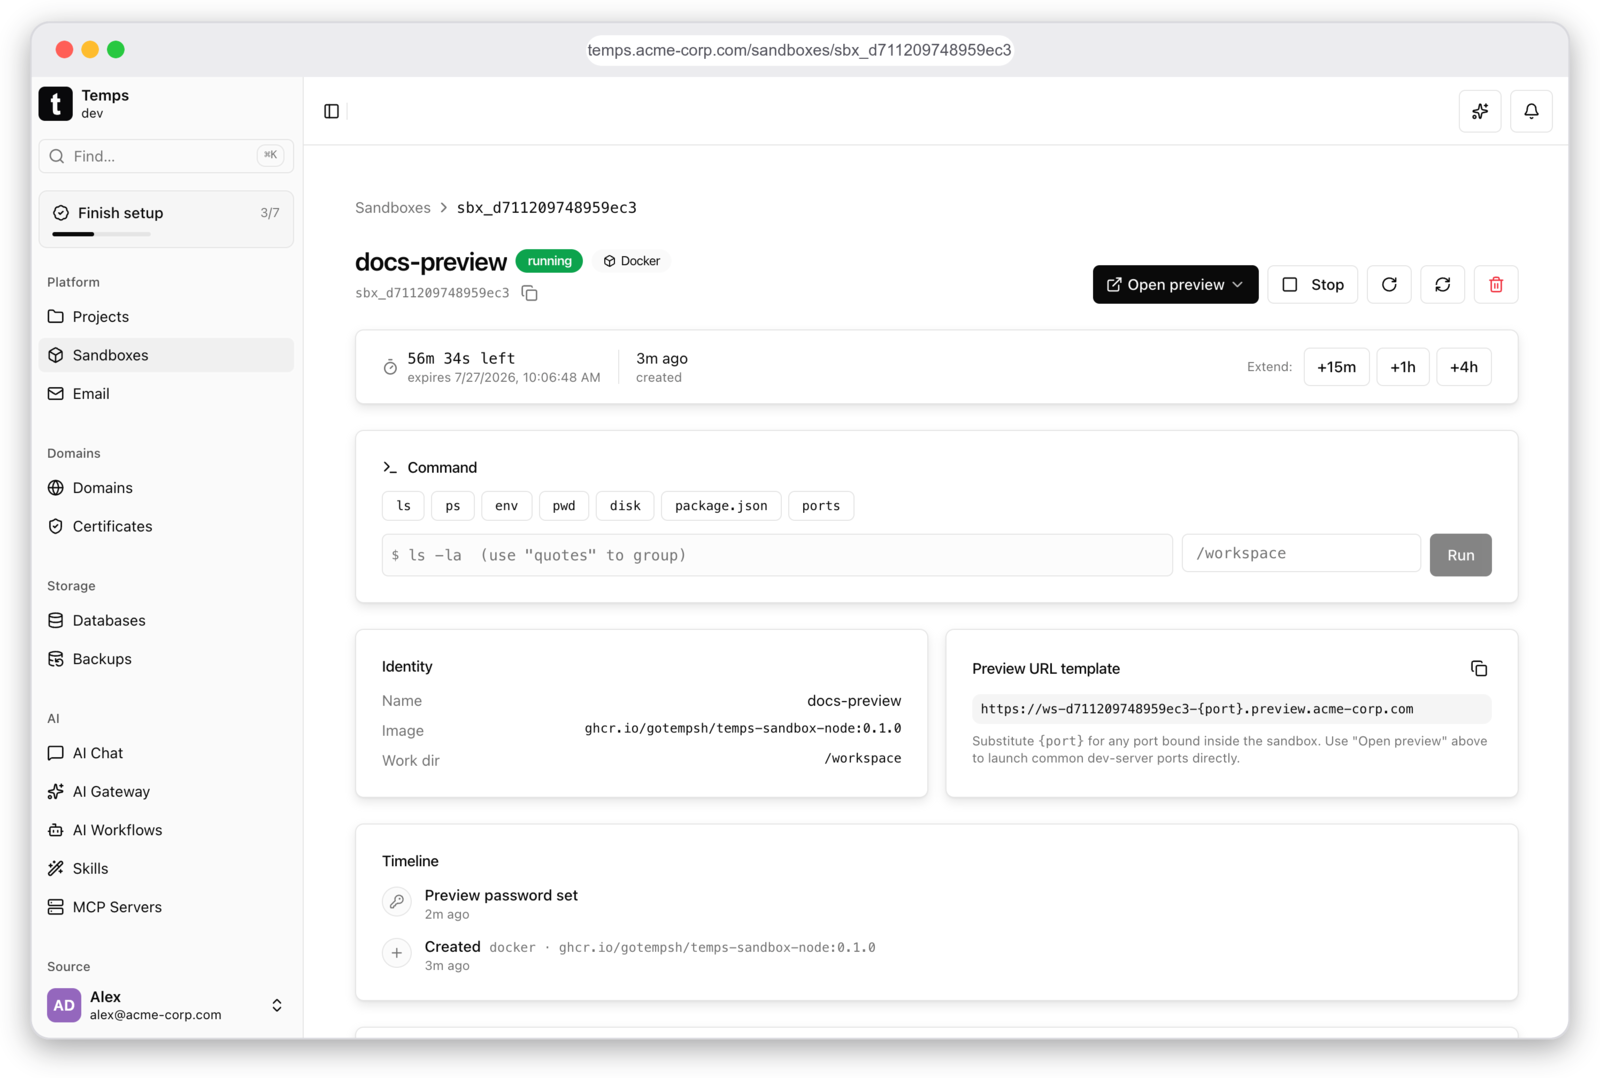
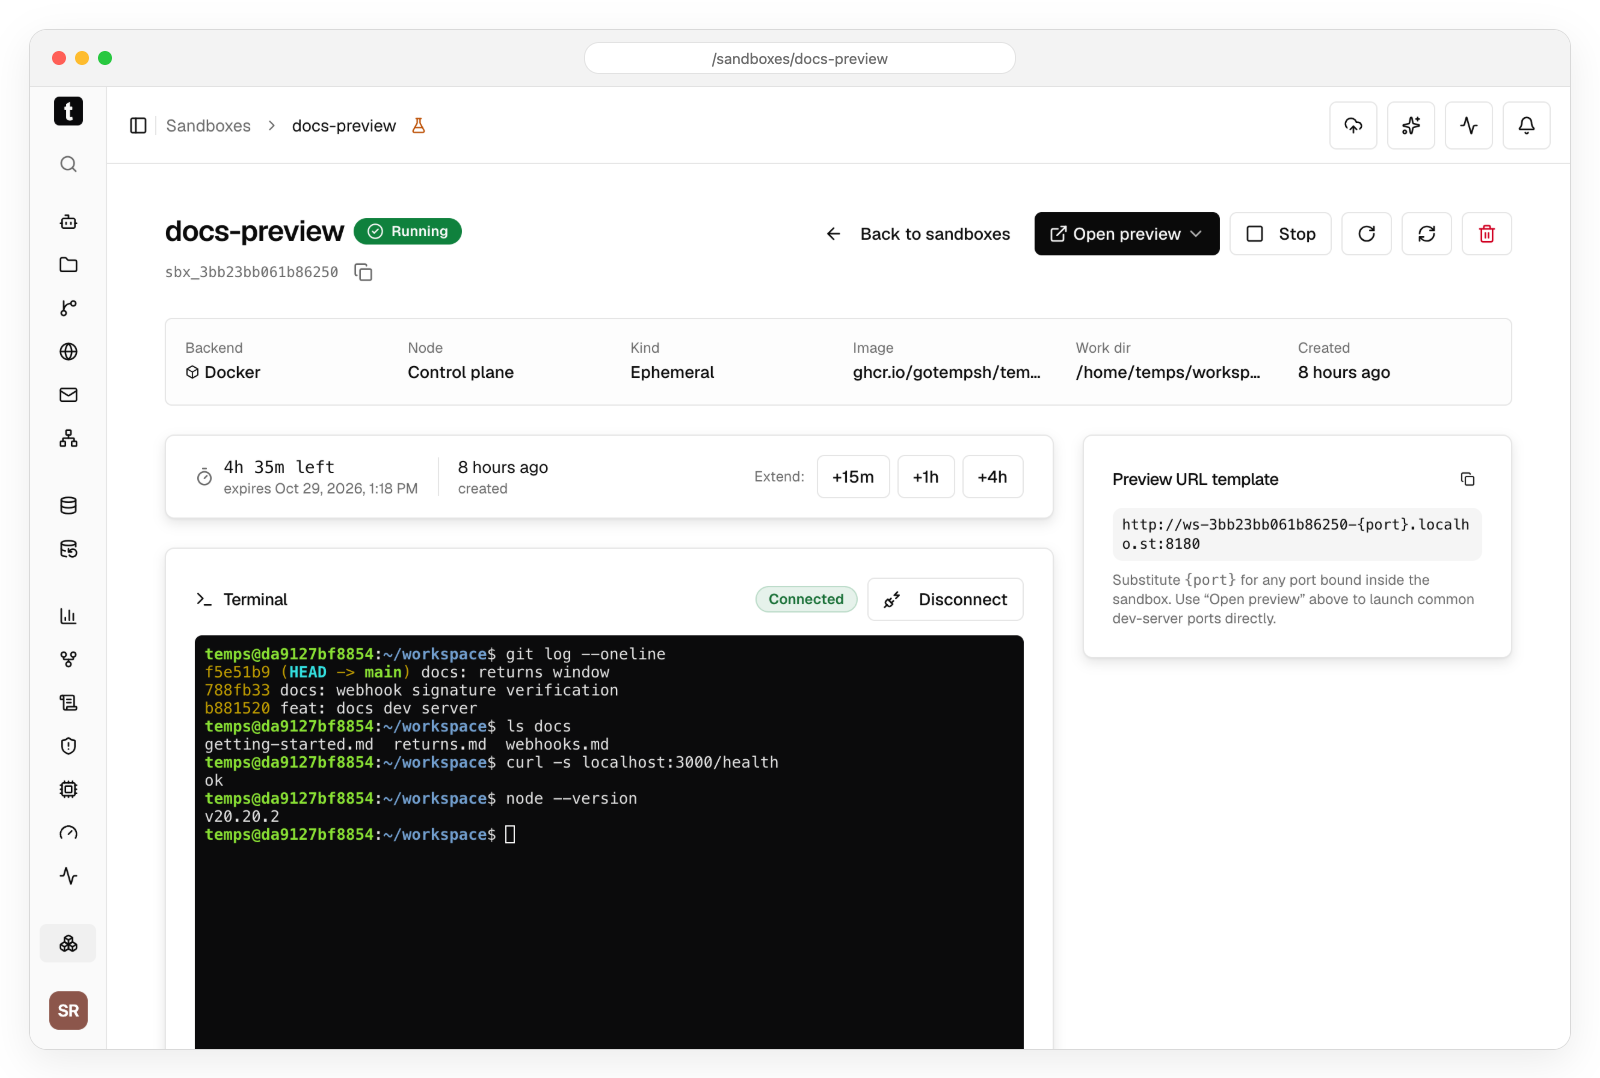
docs(readme): refresh product screenshots
Recapture eight showcase screens (dashboard, AI chat, error tracking,
traces, analytics, uptime, AI usage and sandbox detail) in light and
dark, framed like the existing shots, from a seeded demo instance with
fictional data. Update the alt text of the three images whose content
changed (AI chat, errors, sandbox detail) in every README translation.

diff --git a/README.fr.md b/README.fr.md
@@ -58,7 +58,7 @@ Posez une question sur votre projet et la réponse vient de vos données — tra
 
 <picture>
   <source media="(prefers-color-scheme: dark)" srcset="assets/screenshots/ai-chat-dark.png">
-  <img alt="Le chat IA de Temps diagnostiquant un pic de latence au checkout à partir des traces, métriques et revenus du projet lui-même" src="assets/screenshots/ai-chat-light.png">
+  <img alt="Le chat IA de Temps expliquant des checkouts échoués à partir des erreurs, logs de requêtes et traces du projet lui-même, avec des correctifs suggérés" src="assets/screenshots/ai-chat-light.png">
 </picture>
 
 ### AI Gateway — un seul endpoint, vos propres clés
@@ -99,7 +99,7 @@ Remplacement direct de Sentry : pointez le SDK Sentry officiel vers votre DSN Te
 
 <picture>
   <source media="(prefers-color-scheme: dark)" srcset="assets/screenshots/errors-dark.png">
-  <img alt="Suivi d'erreurs Temps — groupes d'erreurs avec événements et chronologies" src="assets/screenshots/errors-light.png">
+  <img alt="Suivi d'erreurs Temps — erreurs de tous les services avec statut, nombre d'événements et d'utilisateurs, et un bouton « Fix with agent »" src="assets/screenshots/errors-light.png">
 </picture>
 
 ### Logs de requêtes et visibilité du proxy
@@ -181,7 +181,7 @@ Chaque sandbox dispose d'un shell, d'un modèle d'URL d'aperçu pour tout port q
 
 <picture>
   <source media="(prefers-color-scheme: dark)" srcset="assets/screenshots/sandbox-detail-dark.png">
-  <img alt="Détail d'un sandbox Temps — backend Docker/Firecracker, exécuteur de commandes dans le navigateur, modèle d'URL d'aperçu et aperçus protégés par mot de passe" src="assets/screenshots/sandbox-detail-light.png">
+  <img alt="Détail d'un sandbox Temps — un sandbox Docker en cours d'exécution avec un terminal en direct dans le navigateur, le temps restant et le modèle d'URL d'aperçu" src="assets/screenshots/sandbox-detail-light.png">
 </picture>
 
 ### Tout dans un seul tableau de bord

diff --git a/README.es.md b/README.es.md
@@ -58,7 +58,7 @@ Pregunta por tu proyecto y la respuesta sale de tus datos — trazas, métricas,
 
 <picture>
   <source media="(prefers-color-scheme: dark)" srcset="assets/screenshots/ai-chat-dark.png">
-  <img alt="El chat de IA de Temps diagnosticando un pico de latencia en el checkout a partir de las trazas, métricas e ingresos del propio proyecto" src="assets/screenshots/ai-chat-light.png">
+  <img alt="El chat de IA de Temps explicando checkouts fallidos a partir de los errores, logs de peticiones y trazas del propio proyecto, con soluciones sugeridas" src="assets/screenshots/ai-chat-light.png">
 </picture>
 
 ### AI Gateway — un endpoint, tus propias claves
@@ -99,7 +99,7 @@ Sustituto directo de Sentry: apunta el SDK oficial de Sentry a tu DSN de Temps y
 
 <picture>
   <source media="(prefers-color-scheme: dark)" srcset="assets/screenshots/errors-dark.png">
-  <img alt="Seguimiento de errores de Temps — grupos de errores con eventos y líneas de tiempo" src="assets/screenshots/errors-light.png">
+  <img alt="Seguimiento de errores de Temps — errores de todos los servicios con estado, número de eventos y usuarios, y un botón «Fix with agent»" src="assets/screenshots/errors-light.png">
 </picture>
 
 ### Registro de peticiones y visibilidad del proxy
@@ -181,7 +181,7 @@ Cada sandbox trae una shell, una plantilla de URL de vista previa para cualquier
 
 <picture>
   <source media="(prefers-color-scheme: dark)" srcset="assets/screenshots/sandbox-detail-dark.png">
-  <img alt="Detalle de sandbox en Temps — backend Docker/Firecracker, ejecutor de comandos en el navegador, plantilla de URL de vista previa y vistas previas protegidas por contraseña" src="assets/screenshots/sandbox-detail-light.png">
+  <img alt="Detalle de sandbox en Temps — un sandbox Docker en ejecución con terminal en vivo en el navegador, tiempo restante y plantilla de URL de vista previa" src="assets/screenshots/sandbox-detail-light.png">
 </picture>
 
 ### Todo en un solo panel

diff --git a/README.pt-BR.md b/README.pt-BR.md
@@ -58,7 +58,7 @@ Pergunte sobre o seu projeto e a resposta vem dos seus dados — traces, métric
 
 <picture>
   <source media="(prefers-color-scheme: dark)" srcset="assets/screenshots/ai-chat-dark.png">
-  <img alt="O chat de IA do Temps diagnosticando um pico de latência no checkout a partir dos traces, métricas e dados de receita do próprio projeto" src="assets/screenshots/ai-chat-light.png">
+  <img alt="O chat de IA do Temps explicando checkouts com falha a partir dos erros, logs de requisição e traces do próprio projeto, com correções sugeridas" src="assets/screenshots/ai-chat-light.png">
 </picture>
 
 ### AI Gateway — um endpoint, suas próprias chaves
@@ -99,7 +99,7 @@ Substituição drop-in do Sentry: aponte o SDK oficial do Sentry para o seu DSN 
 
 <picture>
   <source media="(prefers-color-scheme: dark)" srcset="assets/screenshots/errors-dark.png">
-  <img alt="Rastreamento de erros do Temps — grupos de erros com eventos e linhas do tempo" src="assets/screenshots/errors-light.png">
+  <img alt="Rastreamento de erros do Temps — erros de todos os serviços com status, contagem de eventos e usuários, e um botão &quot;Fix with agent&quot;" src="assets/screenshots/errors-light.png">
 </picture>
 
 ### Logs de Requisições e Visibilidade do Proxy
@@ -181,7 +181,7 @@ Cada sandbox ganha um shell, um modelo de URL de preview para qualquer porta que
 
 <picture>
   <source media="(prefers-color-scheme: dark)" srcset="assets/screenshots/sandbox-detail-dark.png">
-  <img alt="Detalhe de sandbox no Temps — backend Docker/Firecracker, executor de comandos no navegador, modelo de URL de preview e previews protegidos por senha" src="assets/screenshots/sandbox-detail-light.png">
+  <img alt="Detalhe de sandbox no Temps — um sandbox Docker em execução com terminal ao vivo no navegador, tempo restante e modelo de URL de preview" src="assets/screenshots/sandbox-detail-light.png">
 </picture>
 
 ### Tudo em um só Dashboard

diff --git a/README.de.md b/README.de.md
@@ -58,7 +58,7 @@ Frag nach deinem Projekt und die Antwort kommt aus deinen Daten — Traces, Metr
 
 <picture>
   <source media="(prefers-color-scheme: dark)" srcset="assets/screenshots/ai-chat-dark.png">
-  <img alt="Der Temps-KI-Chat diagnostiziert einen Checkout-Latenzanstieg anhand der eigenen Traces, Metriken und Umsatzdaten des Projekts" src="assets/screenshots/ai-chat-light.png">
+  <img alt="Der Temps-KI-Chat erklärt fehlgeschlagene Checkouts anhand der eigenen Fehler, Request-Logs und Traces des Projekts, mit Lösungsvorschlägen" src="assets/screenshots/ai-chat-light.png">
 </picture>
 
 ### AI Gateway — ein Endpunkt, deine eigenen Keys
@@ -99,7 +99,7 @@ Drop-in-Ersatz für Sentry: Richte das offizielle Sentry-SDK auf deinen Temps-DS
 
 <picture>
   <source media="(prefers-color-scheme: dark)" srcset="assets/screenshots/errors-dark.png">
-  <img alt="Temps Error-Tracking — Fehlergruppen mit Events und Zeitleisten" src="assets/screenshots/errors-light.png">
+  <img alt="Temps Error-Tracking — Fehler aller Services mit Status, Event- und Nutzerzahlen und einer Schaltfläche „Fix with agent“" src="assets/screenshots/errors-light.png">
 </picture>
 
 ### Request-Logs & Proxy-Einblick
@@ -181,7 +181,7 @@ Jede Sandbox bekommt eine Shell, eine Vorschau-URL-Vorlage für jeden gebundenen
 
 <picture>
   <source media="(prefers-color-scheme: dark)" srcset="assets/screenshots/sandbox-detail-dark.png">
-  <img alt="Temps-Sandbox-Detail — Docker-/Firecracker-Backend, Befehlsausführung im Browser, Vorschau-URL-Vorlage und passwortgeschützte Vorschauen" src="assets/screenshots/sandbox-detail-light.png">
+  <img alt="Temps-Sandbox-Detail — eine laufende Docker-Sandbox mit Live-Terminal im Browser, Restlaufzeit und Vorschau-URL-Vorlage" src="assets/screenshots/sandbox-detail-light.png">
 </picture>
 
 ### Alles in einem Dashboard

diff --git a/README.md b/README.md
@@ -42,7 +42,7 @@ Ask about your project and the answer comes from your data — traces, metrics, 
 
 <picture>
   <source media="(prefers-color-scheme: dark)" srcset="assets/screenshots/ai-chat-dark.png">
-  <img alt="Temps AI chat diagnosing a checkout latency spike from the project's own traces, metrics and revenue data" src="assets/screenshots/ai-chat-light.png">
+  <img alt="Temps AI chat explaining failed checkouts from the project's own errors, request logs and traces, with suggested fixes" src="assets/screenshots/ai-chat-light.png">
 </picture>
 
 ### AI Gateway — one endpoint, your own keys
@@ -83,7 +83,7 @@ Point supported official Sentry SDKs at your Temps DSN to ingest errors, structu
 
 <picture>
   <source media="(prefers-color-scheme: dark)" srcset="assets/screenshots/errors-dark.png">
-  <img alt="Temps error tracking — error groups with events and timelines" src="assets/screenshots/errors-light.png">
+  <img alt="Temps error tracking — errors across services with status, event and user counts, and a Fix with agent button" src="assets/screenshots/errors-light.png">
 </picture>
 
 ### Request Logs & Proxy Visibility
@@ -167,7 +167,7 @@ Each sandbox gets a shell, a preview URL template for any port it binds, and a t
 
 <picture>
   <source media="(prefers-color-scheme: dark)" srcset="assets/screenshots/sandbox-detail-dark.png">
-  <img alt="Temps sandbox detail — Docker/Firecracker backend, in-browser command runner, preview URL template and password-protected previews" src="assets/screenshots/sandbox-detail-light.png">
+  <img alt="Temps sandbox detail — a running Docker sandbox with a live in-browser terminal, time left and its preview URL template" src="assets/screenshots/sandbox-detail-light.png">
 </picture>
 
 ### Everything in One Dashboard
